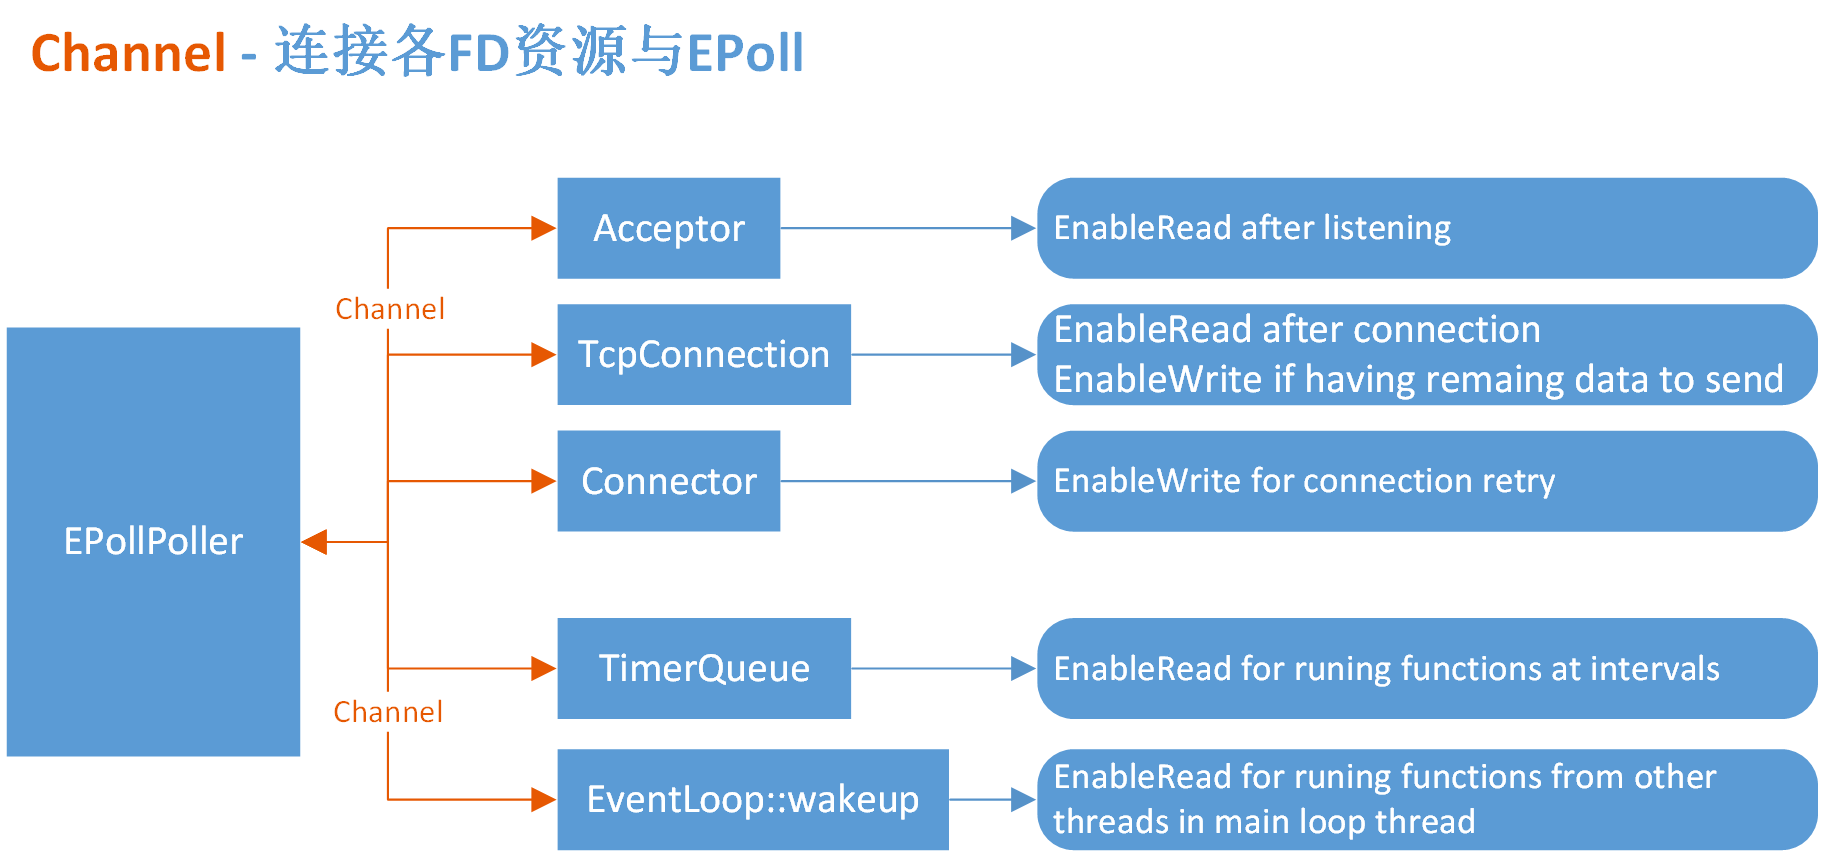
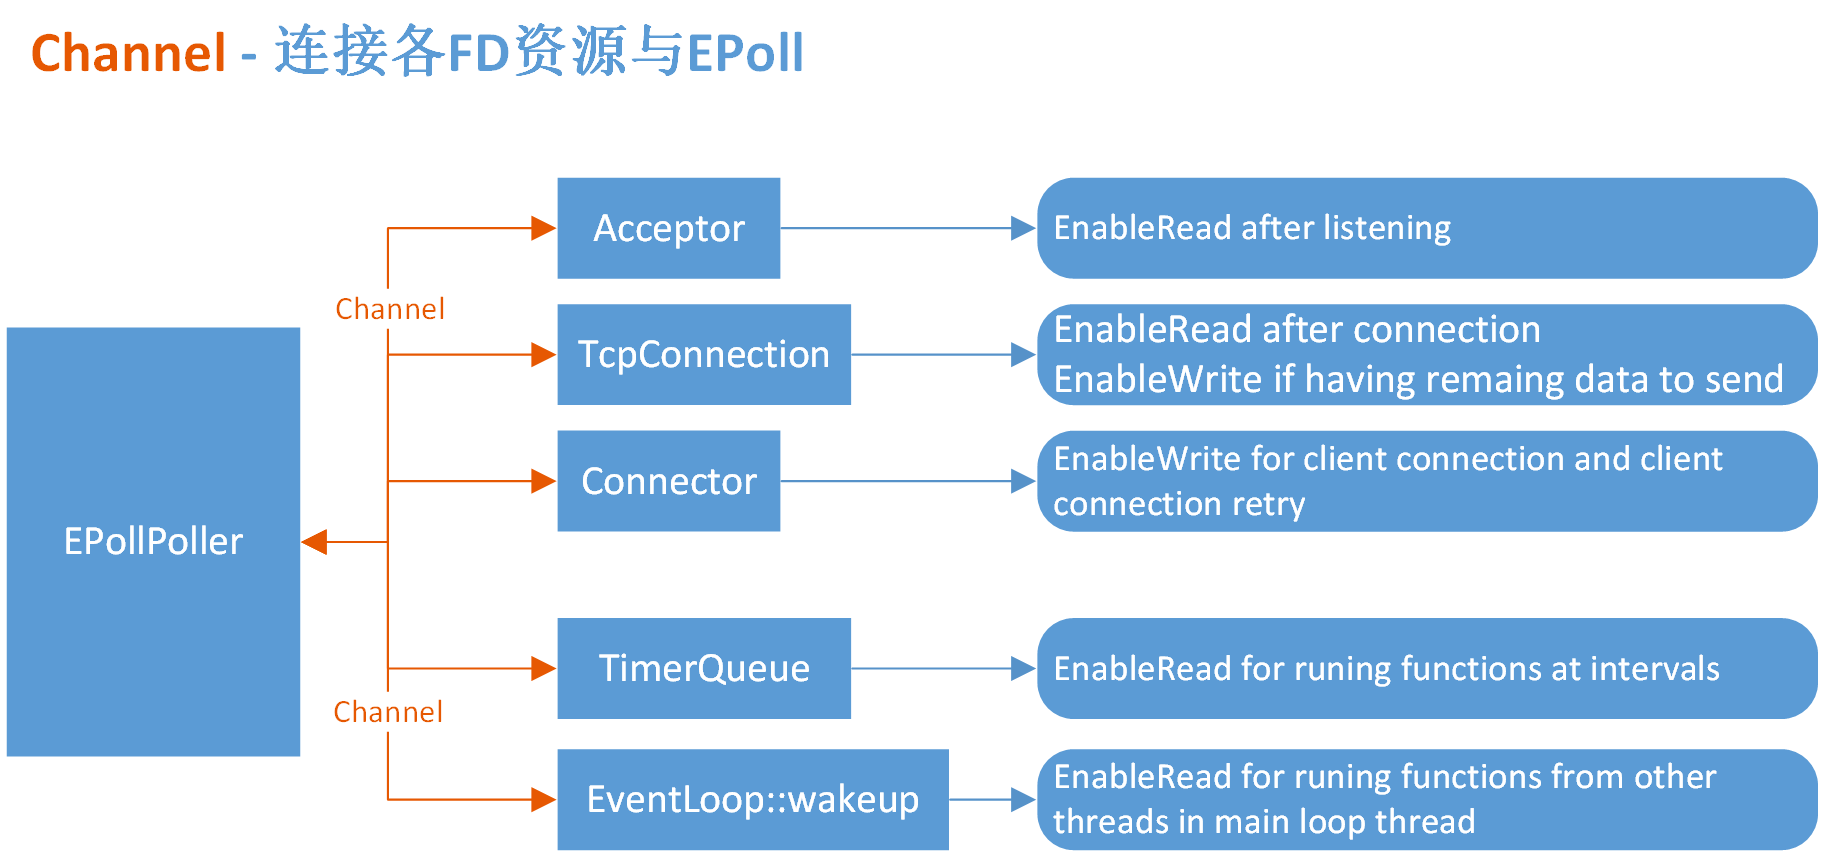
Add more description for moduo architecture.

Changed region(s): [[0.5843, 0.5122, 0.9533, 0.6025]]

diff --git a/README.md b/README.md
@@ -1,14 +1,73 @@
 # Moduo Architecture
 ## File Descriptor - 资源管理
 ![Resource Management](./architecture/Resource-Management.png)
+* TcpClient
+    - 每个`TcpClient`拥有一个`TcpConnection`
+        - `TcpConnection`拥有一个连接服务器的Socket资源
+    - 每个`TcpClient`拥有一个`Connector`
+        - `Connector`用于发起Client的连接（支持连接重试）
+        - `Connector`会把打开的Socket资源交给`Client`的`TcpConnection`维护
+* TcpServer
+    - 每个`TcpServer`拥有**多个**`TcpConnection`
+        - 每个`TcpConnection`拥有一个连接Client的Socket资源
+        - 因为一个服务器可以接受多个Client的连接，所以需要多个`TcpConnection`
+    - 每个`TcpServer`拥有一个`Acceptor`
+        - `Acceptor`拥有一个Socket资源，用于监控Client的连接
 
 ## EPoll - 如何监控FD事件
 ![EPoll](./architecture/EPoll.png)
+* FD资源通过`Channel`和`EPollPoller`连接
+* `EPollPoller`用一个`Map`维护着所有`Channel`
+* 每当某个FD发生事件，其对应的`Channel`会变成`ActiveChannel`
+* `EPollPoller`将`ActiveChannel`通知给`EventLoop`
+* `EventLoop`执行`ActiveChannel`的事件`HandleEvent`
+* `EventLoop`执行完`HandleEvent`后会清除`ActiveChannel`，继续循环等待`EPollPoller`的通知
 
 ## Channel - 如何连接各FD资源与EPoll
 ![Channel](./architecture/Channel.png)
+* `muduo`拥有五种类型的`Channel`实现不同的事件驱动
+    - Acceptor Channel
+    - TcpConnection Channel
+    - Connector Channel
+    - TimerQueue Channel
+    - EventLoop::wakeup Channel
+* Acceptor Channel
+    - 连接着`Acceptor`的Socket资源
+    - `EPollPoller`监控`Acceptor`的`Read`事件<br>
+    如果有新的Client连接到来，`Acceptor`的Socket资源变为可读，触发`Acceptor::handleRead()`事件函数。
+    - `Acceptor::handleRead()`事件函数会执行`TcpServer`的回调函数`newConnection`
+* TcpConnection Channel
+    - 连接着每个`TcpConnection`的Socket资源
+    - `EPollPoller`监控着`TcpConnection`的`Read`事件<br>
+    如果从此连接的另一端有数据`send`过来，此`TcpConnection`的Socket资源变为可读，触发`TcpConnection::handleRead`事件函数。
+    - `TcpConnection::handleRead`事件函数<br>
+    此回调函数会执行`TcpConnection`的回调函数`MessageCallback`，此回调函数需要用户在里面实现收到数据后的业务逻辑。
+    - `EPollPoller`监控着`TcpConnection`的`Write`事件<br>
+    如果一次`TcpConnection`的Socket`write`无法发送完所有的数据，Socket资源暂时会不可写，没发送完的数据被暂时存储在`outputBuffer_`中。此时`EPollPoller`会监控`TcpConnection`的`Write`事件。当连接另一端读走数据后，Socket资源重新变为可写，触发`TcpConnection::handleWrite`事件函数。<br>
+    如果一次`send`可以发送完所有数据，`send`函数会立即执行回调函数`WriteCompleteCallback`。如果没有发完，回调函数`WriteCompleteCallback`会延后到`TcpConnection::handleWrite`事件函数中执行。
+    - `TcpConnection::handleWrite`事件函数<br>
+    此回调函数会执行回调函数`WriteCompleteCallback`，此回调函数需要用户在里面实现发送完数据后的业务逻辑。
+* Connector Channel
+    - 连接一个即将连接服务器的Socket资源
+    - `EPollPoller`监控着`Connector`的`Write`事件<br>
+    当此Socket资源变成可读的时候（即当前Client连接上服务器），触发`Connector::handleWrite`事件函数。
+    - `Connector::handleWrite`事件函数<br>
+    此事件函数会执行`TcpClient`的回调函数`newConnection`。
+* TimerQueue Channel
+    - 连接着一个内部的`timerfd`资源
+    - `EPollPoller`监控着`TimerQueue`的`Read`事件函数<br>
+    当用户调用`EventLoop::runEvery`实现按一定间隔时间执行某个函数，或者调用`EventLoop::runAfter`实现函数的延后执行时，会通过`TimerQueue::addTimer`往`timerfd`资源写入数据。此时`timerfd`资源变成可读，触发`TimerQueue::handleRead`事件函数。
+    - `TimerQueue::handleRead`事件函数<br>
+    此事件函数中会往`TimerList`中添加一个带`Timer`的回调函数，然后回调函数会按照`Timer`的行为实现延时调用或者间隔一定时间调用。
+* EventLoop::wakeup Channel
+    - 连接着一个内部的`eventfd`资源
+    - `EPollPoller`监控着`EventLoop`的`Read`事件函数<br>
+    当某子线程调用`EventLoop::queueInLoop`，希望在主线程中执行它的函数时。不仅此回调函数会被填入`pendingFunctors_`，同时`eventfd`资源会被写入某个数据，触发`EventLoop::handleRead()`事件函数。
+    - 和其他事件不同，`EventLoop::handleRead()`事件函数里面并没有执行什么逻辑。此次触发最主要的作用时唤醒主线程，执行`EventLoop::loop`的一次循环。在循环的末尾，主线程会调用`doPendingFunctors`，执行`pendingFunctors_`里所有的回调函数。这样就达到了子线程函数在主线程执行的目的。
 
-# 多线程编程
+
+
+# 多线程编程示例
 ## Mutex
 - [Counter](./code/Counter/Counter.cpp)
 - [Observer](./code/Observer/main.cpp)
